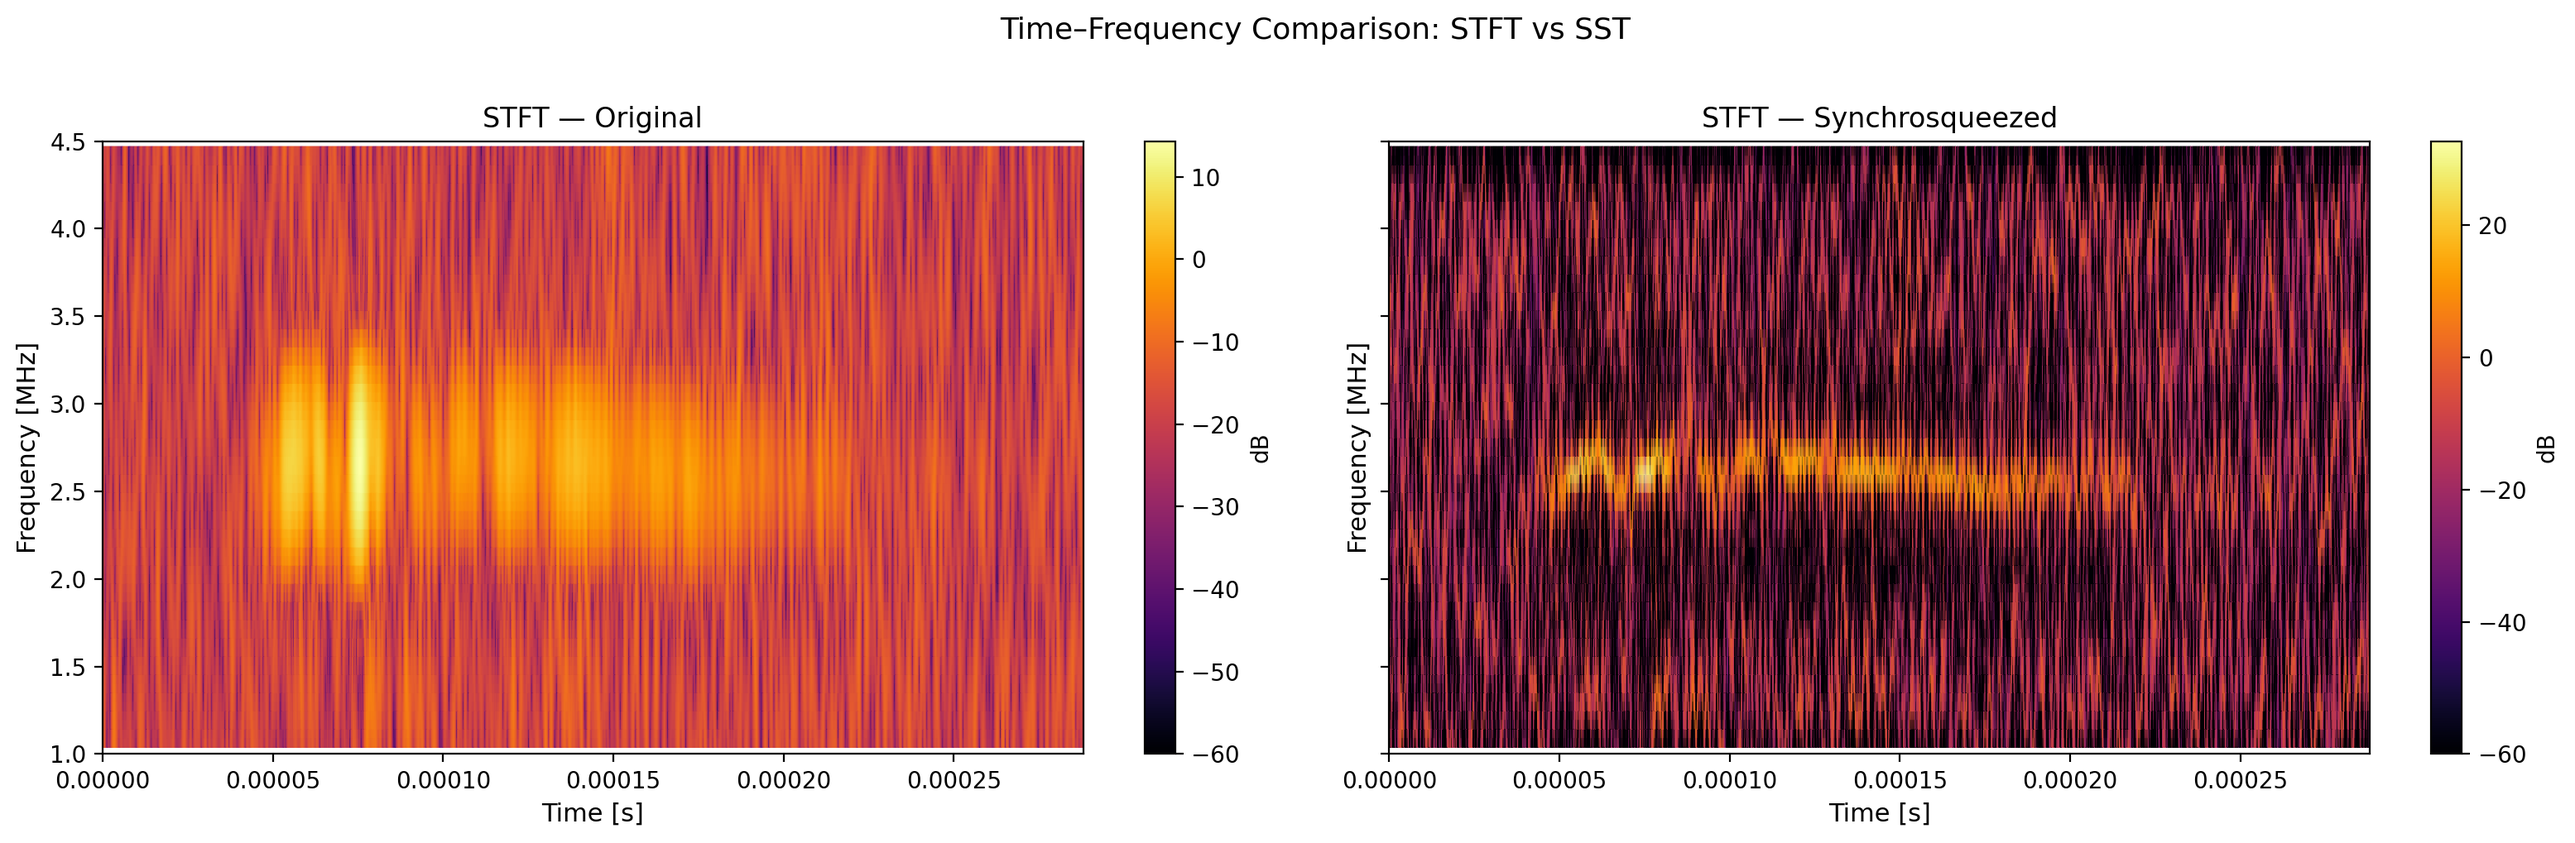
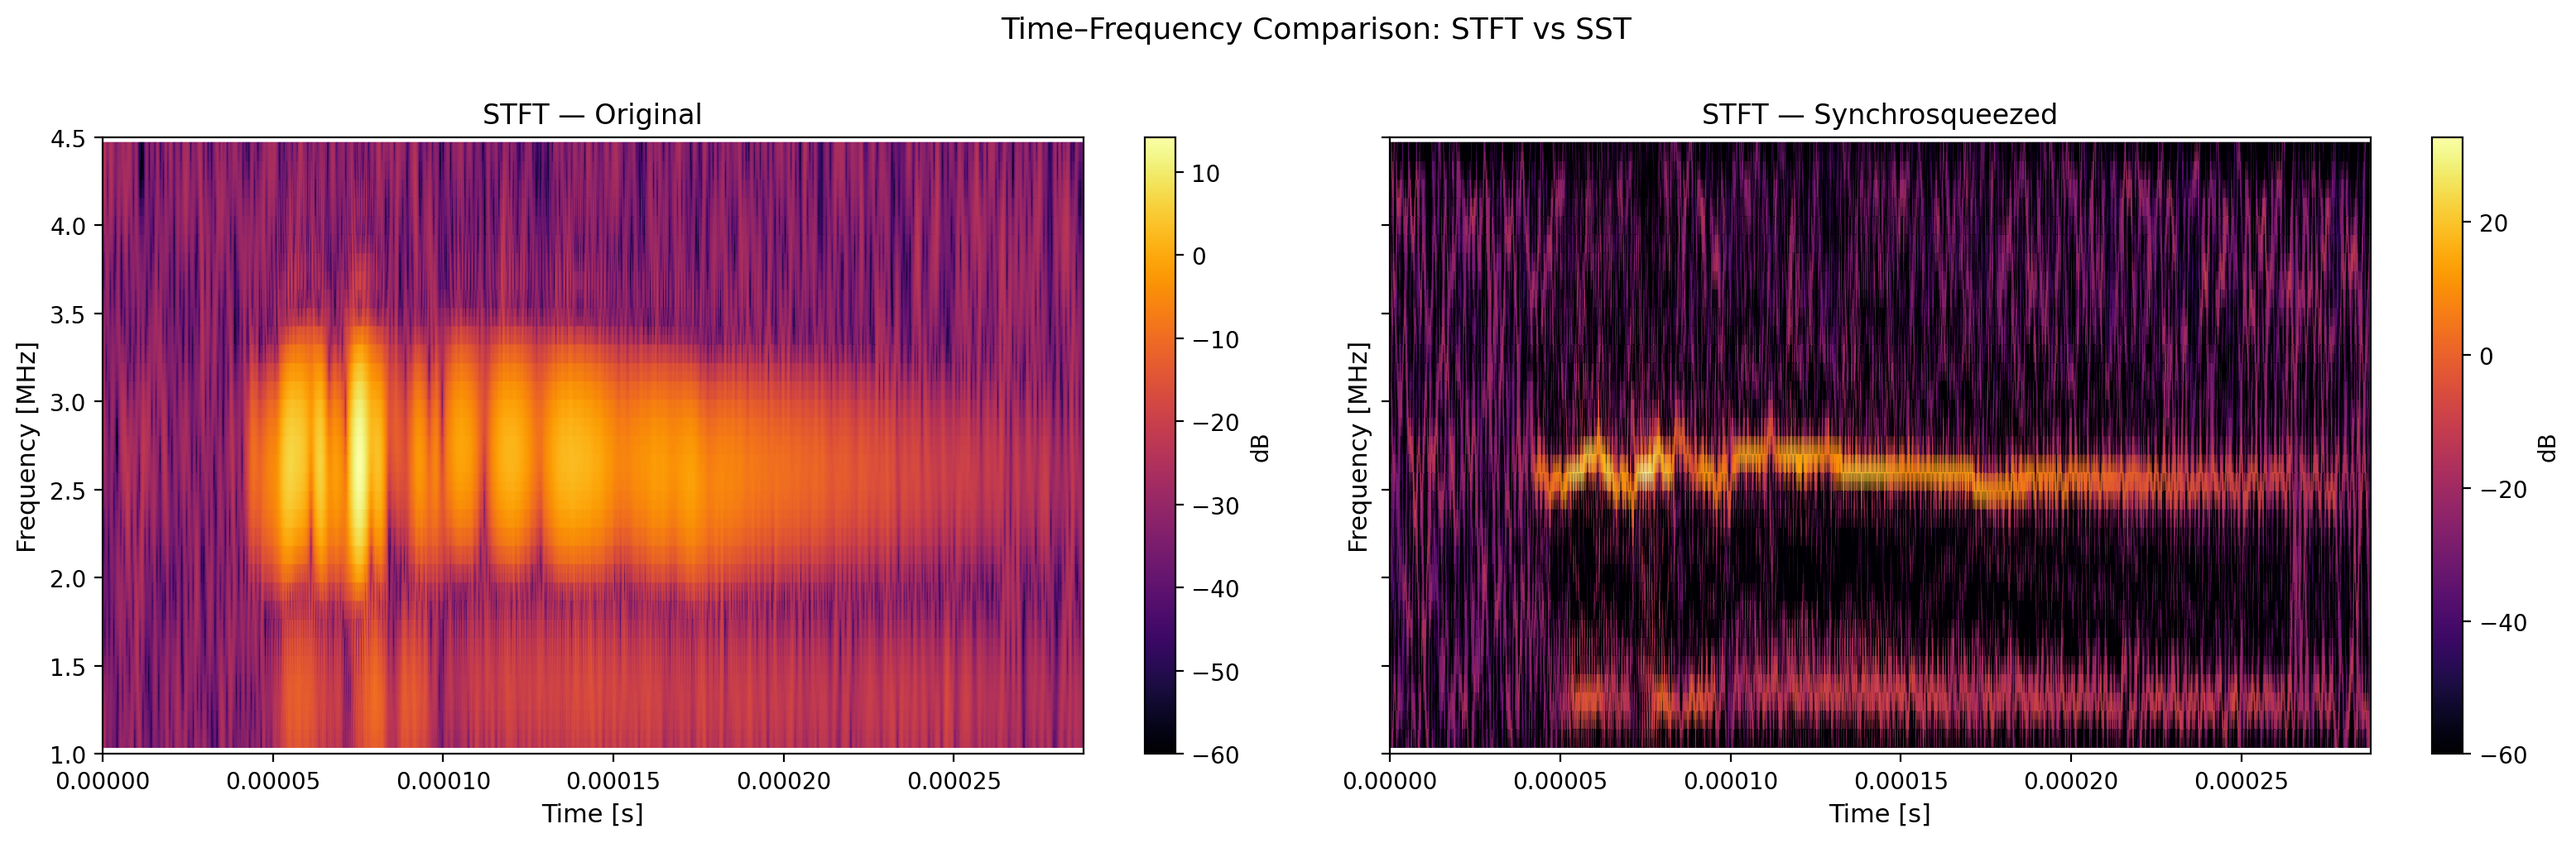
fgfgf

diff --git a/Mains/test_sst_v2.py b/Mains/test_sst_v2.py
@@ -31,7 +31,7 @@ from transforms import SST_v2_processing
 # ═══════════════════════════════════════════════════════════════════════════
 
 # --- signal construction (mirrors despair.py) -------------------------------
-noise_level = 1       # 0 = clean, 1.5 = 150% noise
+noise_level = 0.2      # 0 = clean, 1.5 = 150% noise
 beta        = 9            # non-linearity parameter
 
 A1_mode = "S2 Propagated signal (nm)"   # base harmonic mode for β
